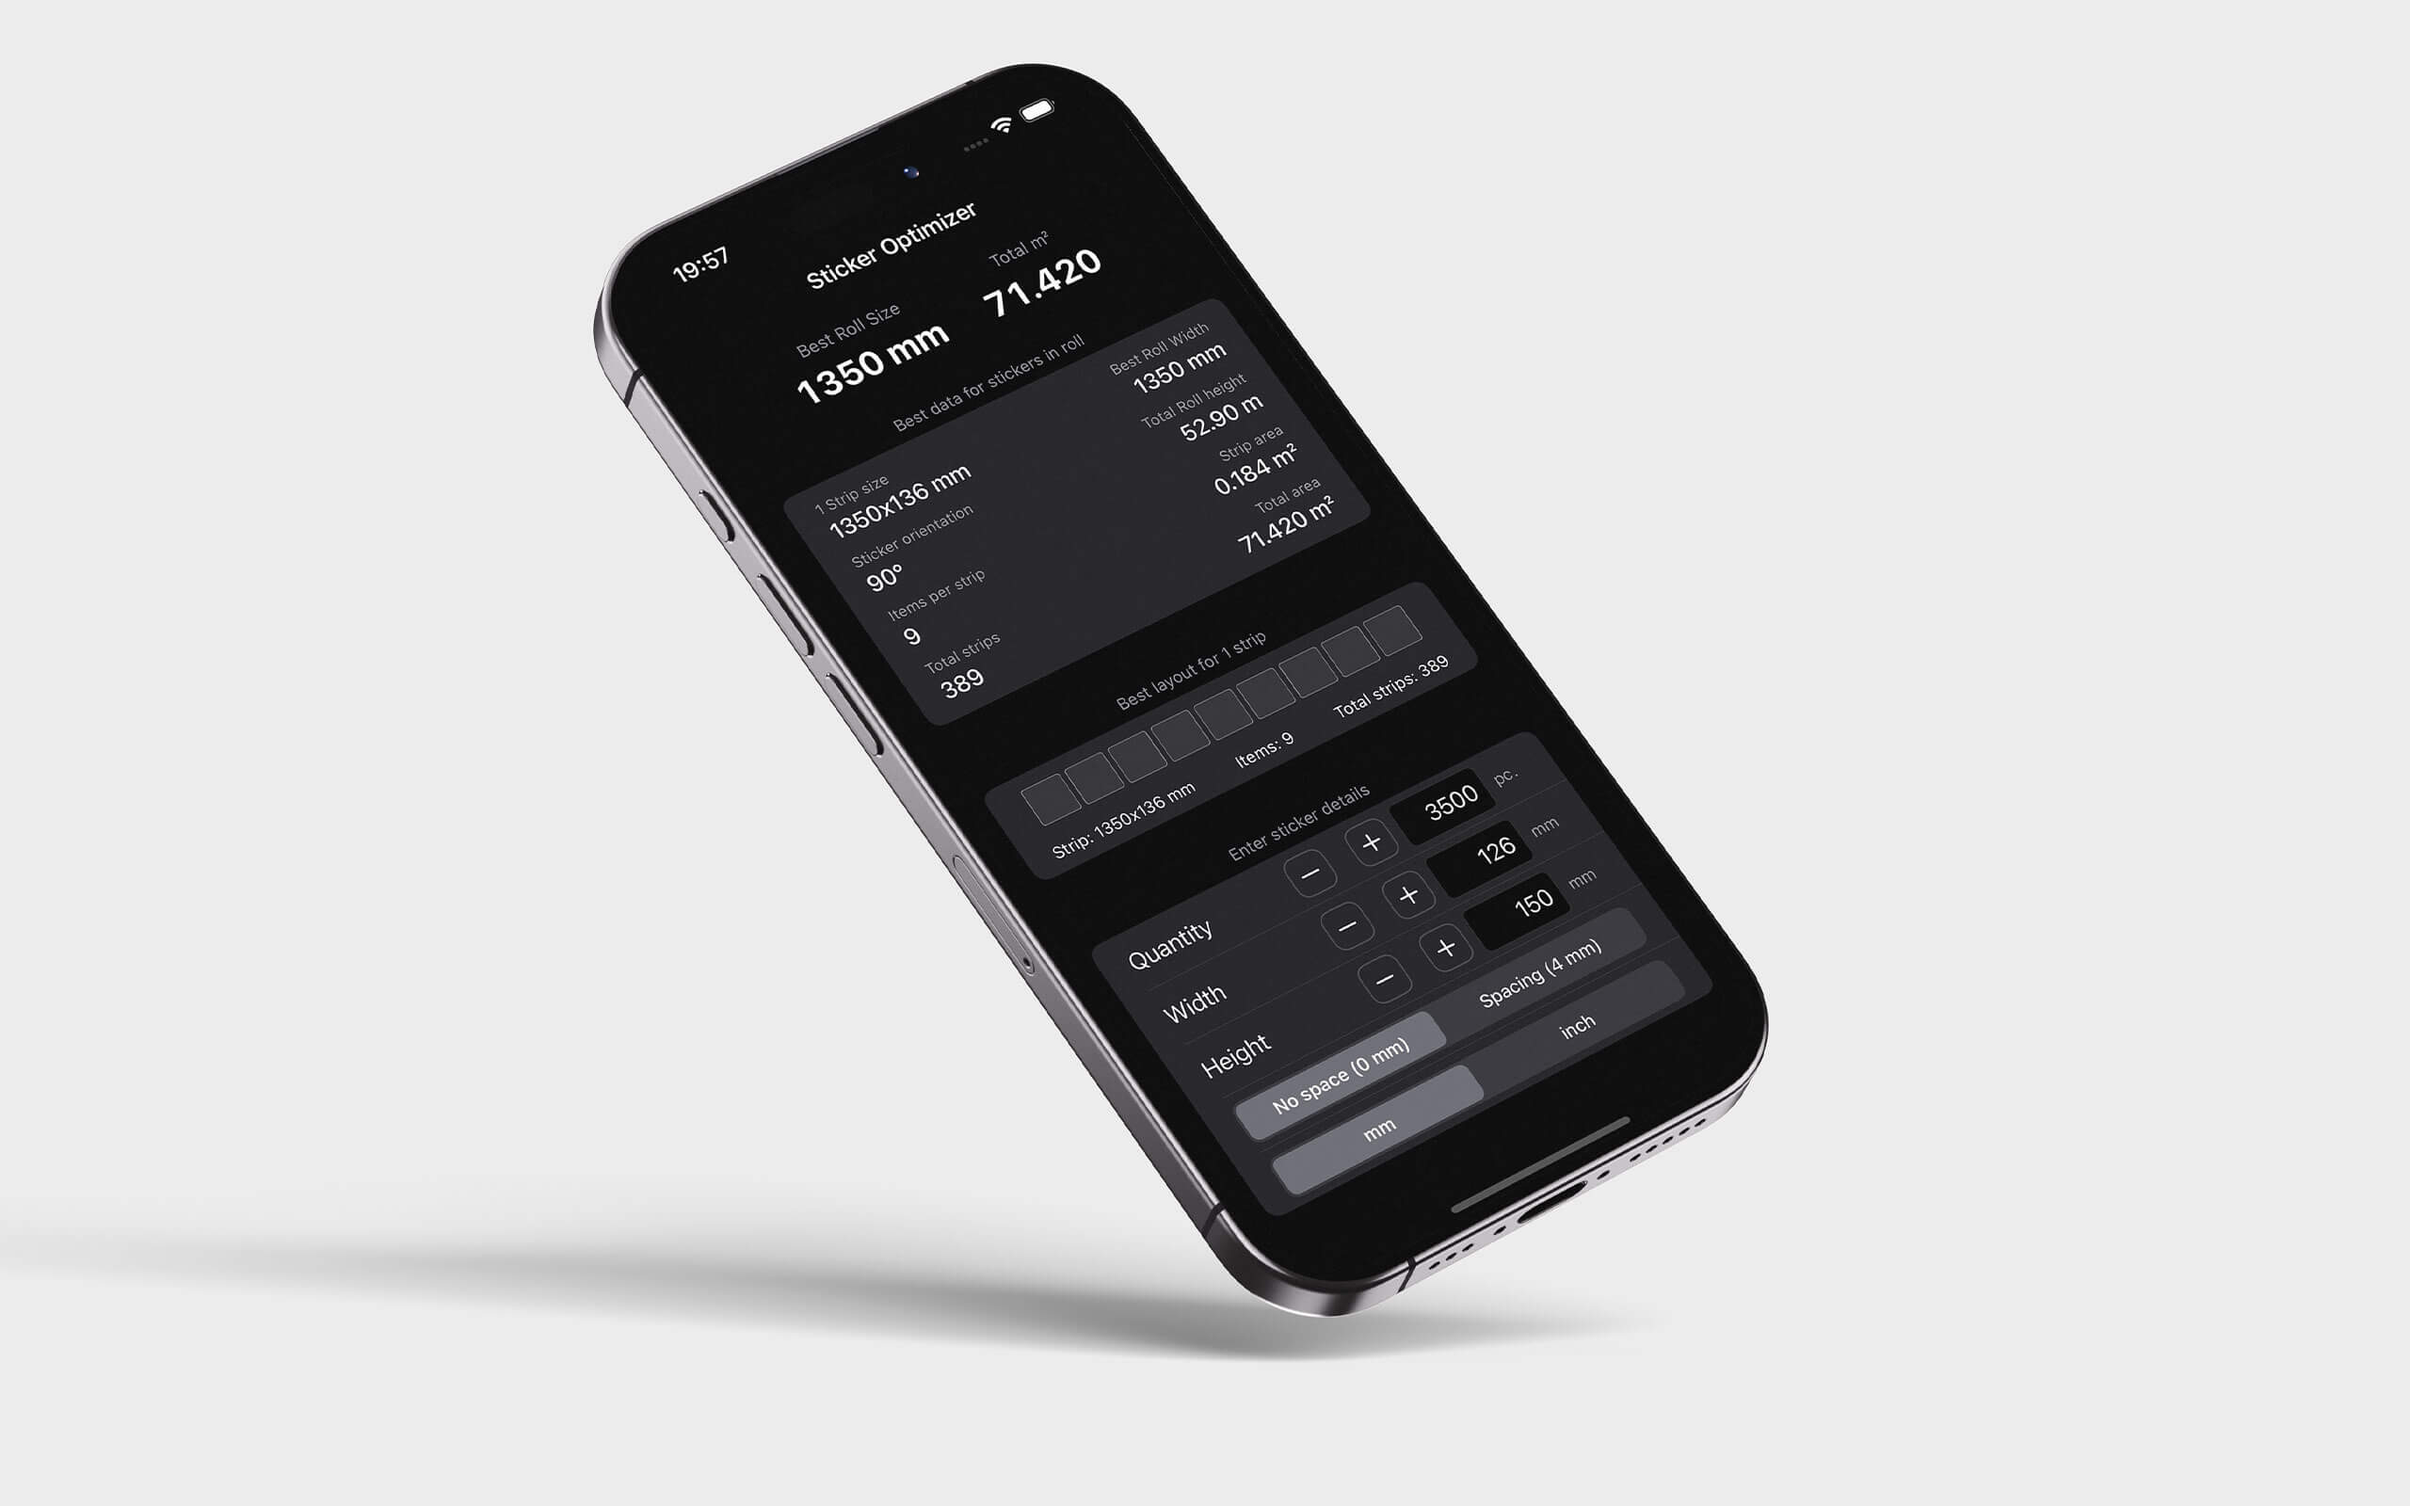
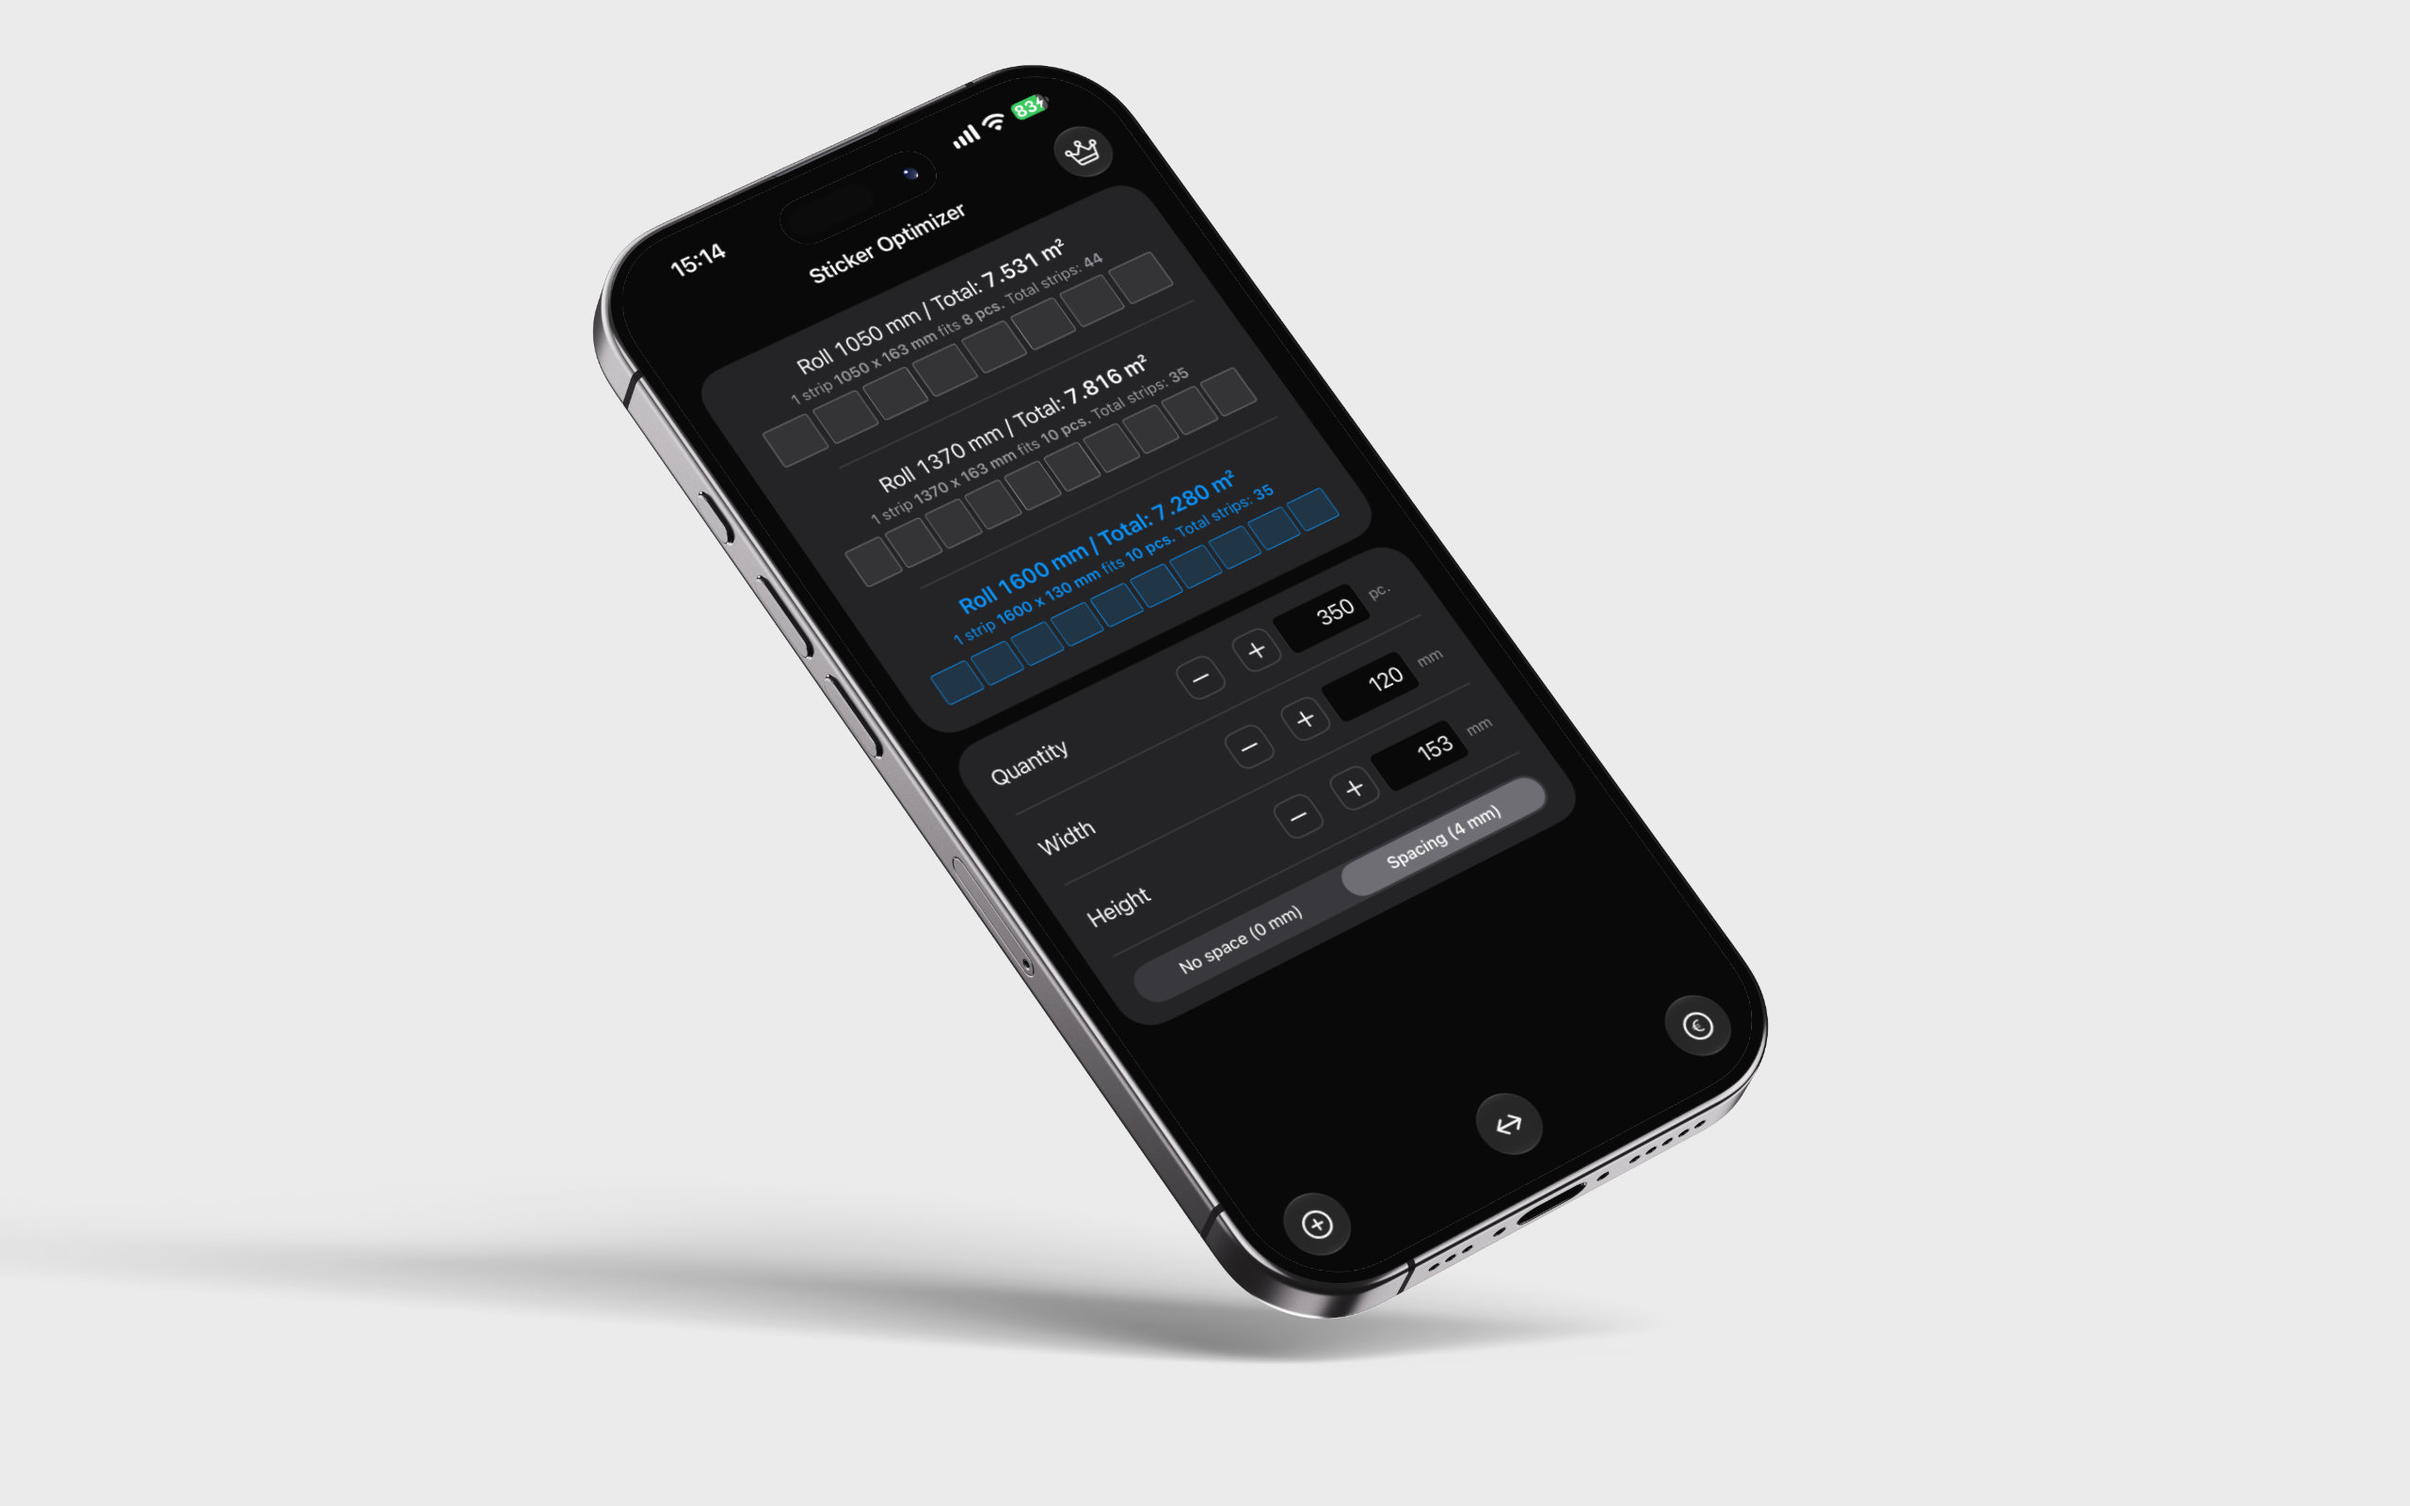
sticker_optimizer_su_Iphone_2560_1600_4

diff --git a/index.html b/index.html
@@ -118,7 +118,7 @@
                                 What <span class="text-primary">it does?</span>
                             </h1>
                             <p class="h3 fw-light mb-6 max-w-600">
-                                A simple and powerful tool designed for graphic designers, print shop owners, and hobbyists.
+                                A simple and powerful tool designed for graphic designers, print shop owners, and managers.
                                 <span class="text-primary">It helps you calculate the most efficient roll layout</span> for printing stickers, posters on large-scale printers.                               
                             </p>                            
                         </div>
